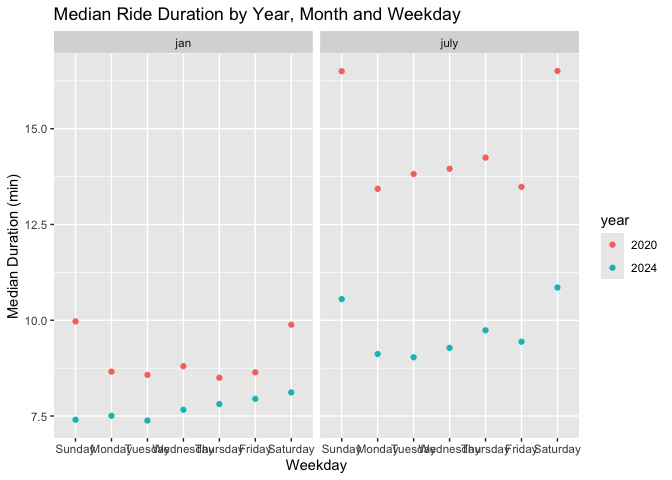
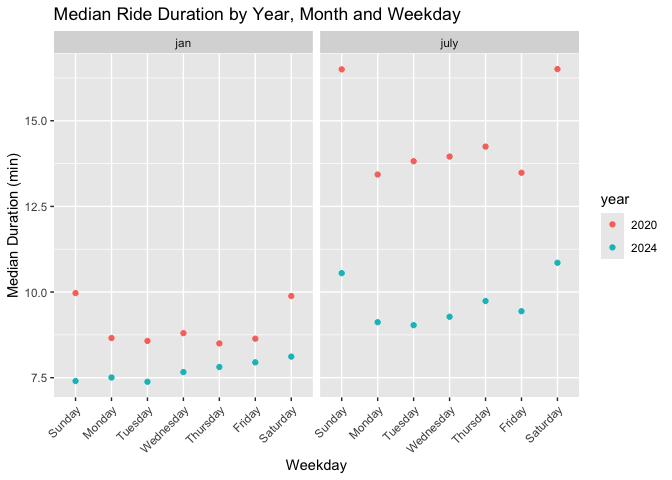
adjusted x-axes to make labels fit better

diff --git a/p8105_hw3_ms6826.md b/p8105_hw3_ms6826.md
@@ -86,6 +86,7 @@ ggplot_avgtmax=
   station_avgtmax |> 
  ggplot(aes(x=year, y=mean_tmax, group=id)) +
   geom_point()  +
+  theme(axis.text.x = element_text(angle = 45, hjust = 1))+
   facet_grid(. ~ month)
 
 ggplot_avgtmax
@@ -280,6 +281,7 @@ mims_activity_df=
 ggplot_activity=
   mims_activity_df |> 
   ggplot(aes(x=minute, y=activity, color=sex, group=seqn)) +
+  theme(axis.text.x = element_text(angle = 45, hjust = 1)) +
   geom_line(alpha=.1) +
   geom_smooth(aes(group=sex), se= FALSE)+
   facet_wrap(.~ education) +
@@ -459,6 +461,7 @@ bike_df |>
   summarize(med_dur=median(duration)) |> 
   ggplot(aes(x=weekdays, y=med_dur, color=year)) +
   geom_point() +
+  theme(axis.text.x = element_text(angle = 45, hjust = 1)) +
   facet_grid(.~ month) +
     labs(title = "Median Ride Duration by Year, Month and Weekday",
        x = "Weekday",
